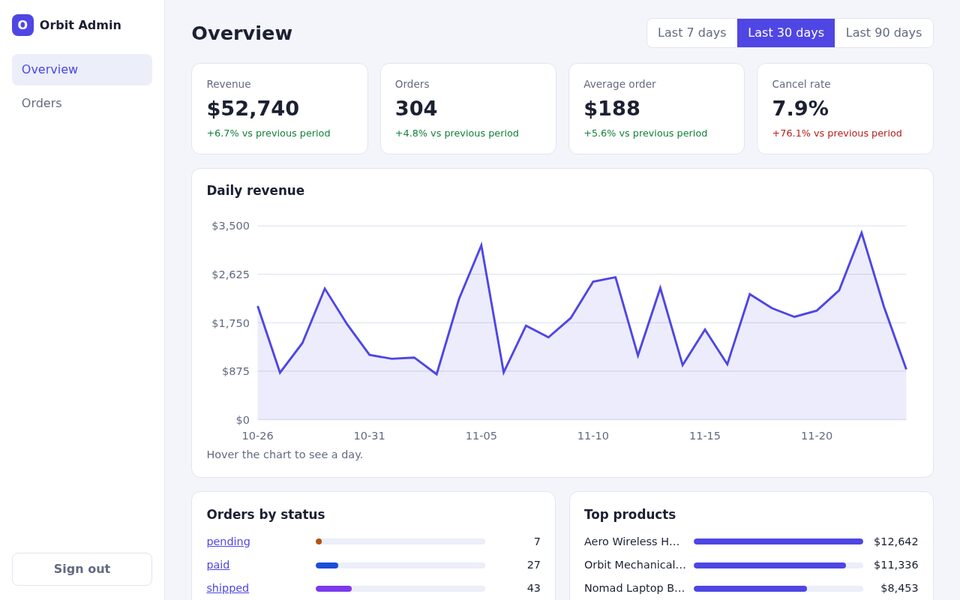
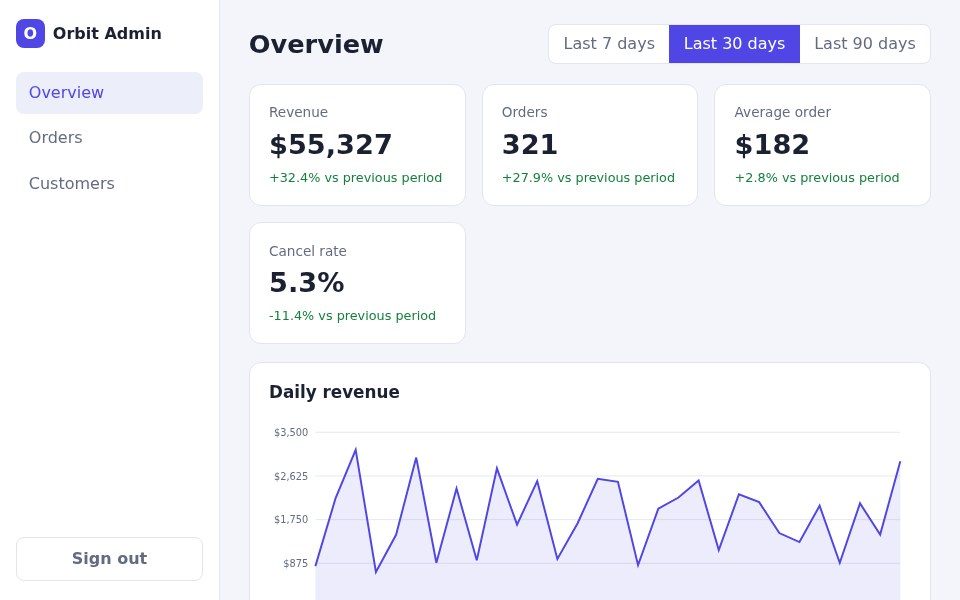
Update card copy for the last two slices and refresh the Orbit Admin shot
Aqua Dispatch now says crew assignment is ranked by road travel time with a
straight-line fallback, and Orbit Admin mentions the customers table.

diff --git a/src/data/profile.js b/src/data/profile.js
@@ -26,8 +26,8 @@ export const projects = [
     id: 'aqua-dispatch',
     name: 'Aqua Dispatch',
     kind: 'GIS map app',
-    summary: 'A water utility dispatch map built with OpenLayers: incidents and crews on a live map, a pipe network layer, and nearest-crew assignment by real great-circle distance. It mirrors the kind of GIS interface I build at Penta-b.',
-    highlights: ['Distance maths tested (haversine, not degrees)', 'Dispatch rules enforced outside the UI', 'Map layers, filters and marker selection'],
+    summary: 'A water utility dispatch map built with OpenLayers: incidents and crews on a live map, a pipe network layer, and nearest-crew assignment ranked by road travel time from a routing service, with a straight-line fallback. It mirrors the kind of GIS interface I build at Penta-b.',
+    highlights: ['Road ETAs with a labelled straight-line fallback', 'Dispatch rules enforced outside the UI', 'Map layers, filters and marker selection'],
     stack: ['React', 'OpenLayers', 'Vite', 'OpenStreetMap'],
     live: 'https://aqua-dispatch-hazel.vercel.app',
     code: 'https://github.com/abdoshawky1/aqua-dispatch',
@@ -38,8 +38,8 @@ export const projects = [
     id: 'orbit-admin',
     name: 'Orbit Admin',
     kind: 'Admin dashboard',
-    summary: 'Sales overview and order management for an online shop: KPI cards with period comparison, a hand-written SVG revenue chart, and a searchable, sortable orders table with CSV export.',
-    highlights: ['Filters kept in the URL', 'Order status follows business rules', 'Spreadsheet-safe CSV export'],
+    summary: 'Sales overview and order management for an online shop: KPI cards with period comparison, a hand-written SVG revenue chart, and searchable, sortable orders and customers tables with CSV export.',
+    highlights: ['Filters kept in the URL', 'Order status follows business rules', 'Customers built from order history'],
     stack: ['React', 'Vite', 'React Router', 'SVG charts'],
     live: 'https://orbit-admin-cyan.vercel.app',
     code: 'https://github.com/abdoshawky1/orbit-admin',
